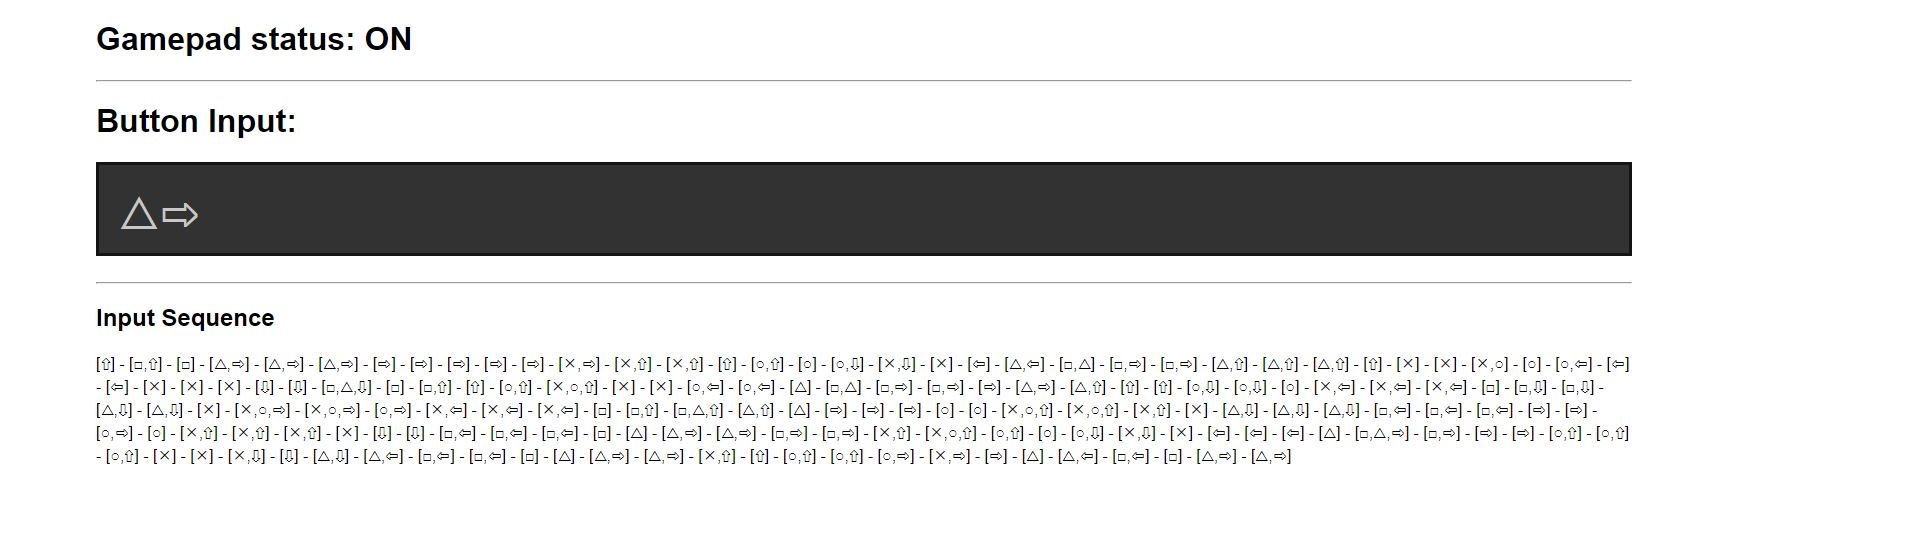
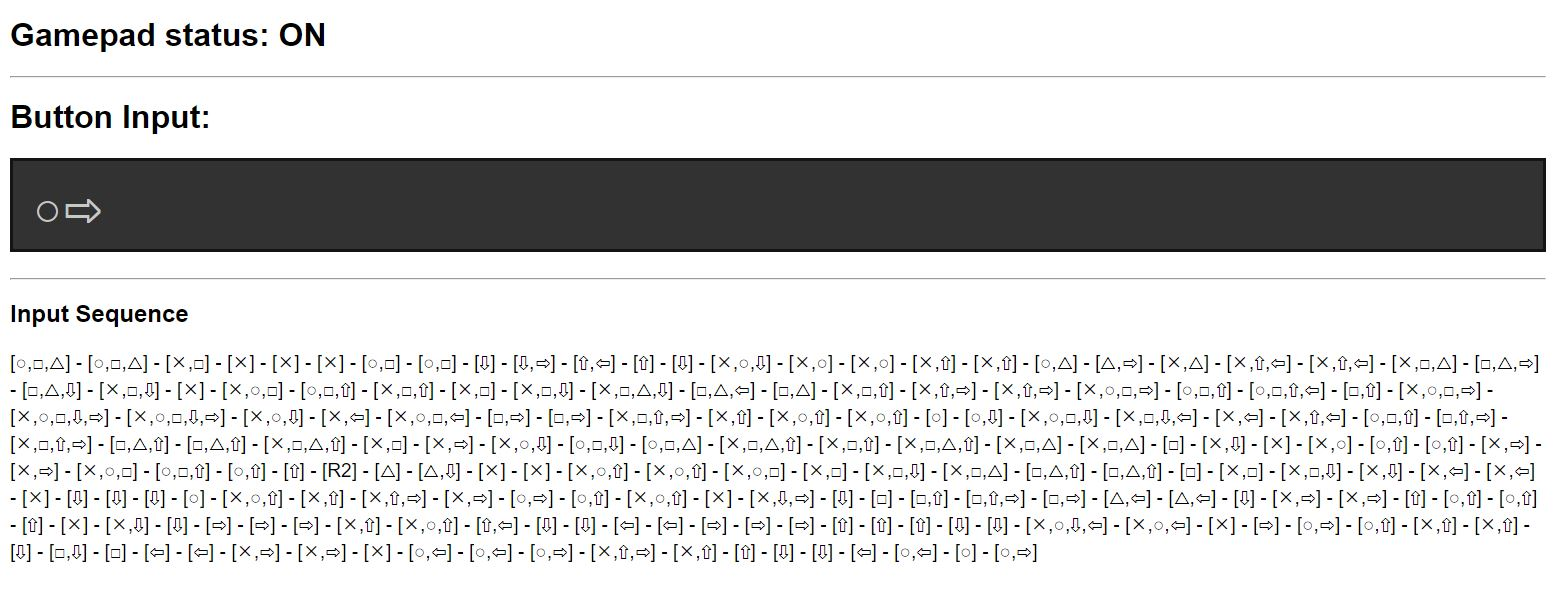
update gamepad_input styling and preview

Changed region(s): [[0.0, 0.491, 1.0, 0.9206], [0.0, 0.1227, 1.0, 0.4603], [0.0, 0.0307, 0.2159, 0.0921]]

diff --git a/gamepad_input/gamepad_input.css b/gamepad_input/gamepad_input.css
@@ -14,3 +14,7 @@ body {
 	background-color: rgb(50,50,50);
 	border: 3px solid rgb(20,20,20);
 }
+
+#inputSequence {
+	font-size: 1.2em;
+}
